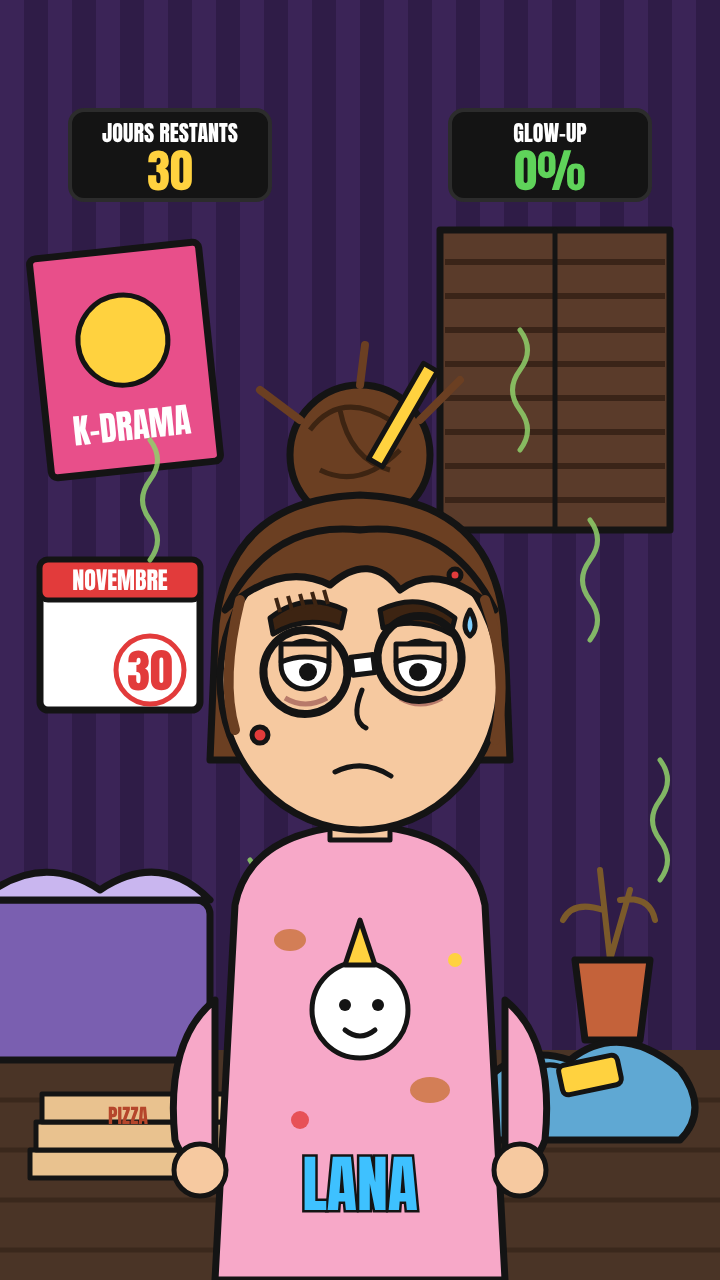
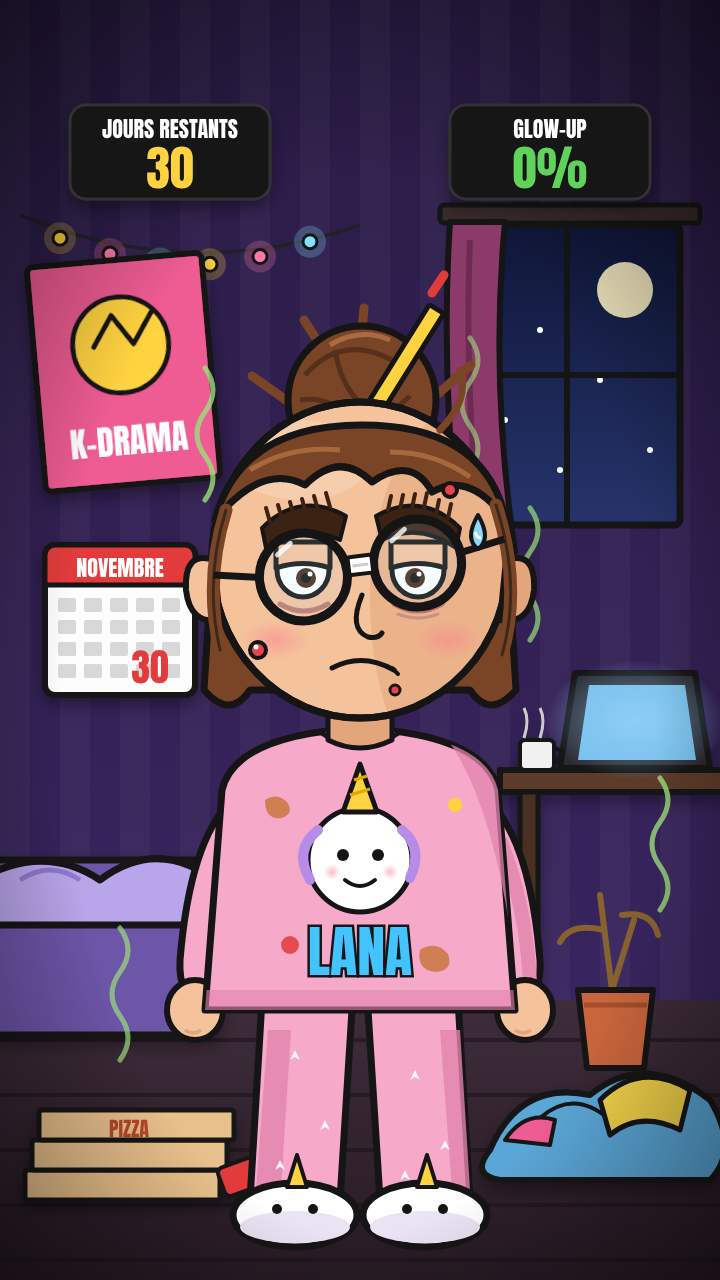
Ep01 : Lana v2, rendu ombré plus détaillé
Claude-Session: https://claude.ai/code/session_01JNk9tAzosVqfPuqeBGbF6X

diff --git a/outils/lana_v2.js b/outils/lana_v2.js
@@ -1,0 +1,245 @@
+// Lana 30 jours — rendu v2 (2D cartoon ombré, proche du rendu de la série de référence)
+const K = '#151515';
+const O = (w=6) => `stroke="${K}" stroke-width="${w}" stroke-linejoin="round" stroke-linecap="round"`;
+const SKIN='#f4c39c', SKIN_D='#e3a67c', HAIR='#7a4526', HAIR_D='#56301a', PINK='#f6a9c9', PINK_D='#e283ad';
+
+const defs = `
+<defs>
+ <linearGradient id="wall" x1="0" y1="0" x2="0" y2="1"><stop offset="0" stop-color="#2a1b45"/><stop offset="1" stop-color="#3c2766"/></linearGradient>
+ <radialGradient id="vig" cx=".5" cy=".55" r=".75"><stop offset=".55" stop-color="#000" stop-opacity="0"/><stop offset="1" stop-color="#000" stop-opacity=".55"/></radialGradient>
+ <linearGradient id="sky" x1="0" y1="0" x2="0" y2="1"><stop offset="0" stop-color="#0f1638"/><stop offset="1" stop-color="#26346b"/></linearGradient>
+ <linearGradient id="floor" x1="0" y1="0" x2="0" y2="1"><stop offset="0" stop-color="#3e2c3a"/><stop offset="1" stop-color="#271a24"/></linearGradient>
+ <radialGradient id="glow" cx=".5" cy=".5" r=".5"><stop offset="0" stop-color="#9fd8ff" stop-opacity=".55"/><stop offset="1" stop-color="#9fd8ff" stop-opacity="0"/></radialGradient>
+ <radialGradient id="blush" cx=".5" cy=".5" r=".5"><stop offset="0" stop-color="#ff7d8e" stop-opacity=".5"/><stop offset="1" stop-color="#ff7d8e" stop-opacity="0"/></radialGradient>
+ <filter id="sh" x="-20%" y="-20%" width="140%" height="140%"><feDropShadow dx="0" dy="8" stdDeviation="8" flood-color="#000" flood-opacity=".35"/></filter>
+ <clipPath id="cFace"><ellipse cx="360" cy="560" rx="148" ry="158"/></clipPath>
+ <clipPath id="cTop"><path d="M222 790 Q235 735 360 728 Q485 735 498 790 L515 1010 L205 1010 Z"/></clipPath>
+ <pattern id="stars" width="70" height="70" patternUnits="userSpaceOnUse"><path d="M20 22 l4 -10 l4 10 l-4 -2z" fill="#fff" opacity=".55"/><circle cx="52" cy="50" r="3" fill="#fff" opacity=".45"/></pattern>
+</defs>`;
+
+function room() {
+  let st=''; for(let x=0;x<720;x+=60) st+=`<rect x="${x}" y="0" width="30" height="1000" fill="#fff" opacity=".035"/>`;
+  return `
+  <rect width="720" height="1280" fill="url(#wall)"/>${st}
+  <!-- fenêtre de nuit + rideau -->
+  <rect x="455" y="225" width="225" height="300" rx="6" fill="url(#sky)" ${O(7)}/>
+  <circle cx="625" cy="290" r="28" fill="#fff4c4" opacity=".9"/>
+  ${[[495,270],[540,330],[600,380],[505,420],[650,450],[560,470]].map(([x,y])=>`<circle cx="${x}" cy="${y}" r="3" fill="#fff"/>`).join('')}
+  <line x1="567" y1="225" x2="567" y2="525" ${O(6)}/><line x1="455" y1="375" x2="680" y2="375" ${O(6)}/>
+  <rect x="440" y="205" width="260" height="18" rx="4" fill="#3a2a2a" ${O(5)}/>
+  <path d="M450 222 q-10 150 10 330 l55 0 q-25 -170 -10 -330z" fill="#8c3a6a" ${O(6)}/>
+  <path d="M470 240 q-6 140 10 300" stroke="#6d2a52" stroke-width="6" fill="none"/>
+  <!-- guirlande lumineuse -->
+  <path d="M20 215 q170 70 340 10" fill="none" stroke="#222" stroke-width="3"/>
+  ${[60,110,160,210,260,310].map((x,i)=>{const y=215+Math.sin((x-20)/340*Math.PI)*42;const c=['#ffd23f','#ff7aa8','#7fe0ff'][i%3];return `<circle cx="${x}" cy="${y+8}" r="16" fill="${c}" opacity=".25"/><circle cx="${x}" cy="${y+8}" r="7" fill="${c}" ${O(3)}/>`}).join('')}
+  <!-- poster -->
+  <g transform="rotate(-5 120 360)" filter="url(#sh)">
+   <rect x="35" y="260" width="175" height="225" rx="6" fill="#ef5b93" ${O(6)}/>
+   <circle cx="122" cy="345" r="48" fill="#ffd23f" ${O(5)}/><path d="M95 345 l20 -30 l20 30 l20 -30" fill="none" ${O(5)}/>
+   <text x="122" y="455" font-family="Anton" font-size="34" fill="#fff" text-anchor="middle">K-DRAMA</text>
+  </g>
+  <!-- calendrier -->
+  <g filter="url(#sh)"><rect x="45" y="545" width="150" height="150" rx="10" fill="#fdfdfd" ${O(6)}/>
+  <path d="M45 585 v-30 a10 10 0 0 1 10 -10 h130 a10 10 0 0 1 10 10 v30z" fill="#e23b3b" ${O(5)}/>
+  <text x="120" y="577" font-family="Anton" font-size="22" fill="#fff" text-anchor="middle">NOVEMBRE</text>
+  ${[0,1,2,3].map(r=>[0,1,2,3,4].map(c=>`<rect x="${58+c*26}" y="${598+r*22}" width="18" height="14" rx="2" fill="#d8d8d8"/>`).join('')).join('')}
+  <text x="150" y="683" font-family="Anton" font-size="38" fill="#e23b3b" text-anchor="middle">30</text></g>
+  <!-- sol -->
+  <rect x="0" y="1000" width="720" height="280" fill="url(#floor)"/>
+  ${[0,1,2,3,4].map(i=>`<line x1="0" y1="${1040+i*55}" x2="720" y2="${1040+i*55}" stroke="#1d131b" stroke-width="4" opacity=".6"/>`).join('')}
+  <!-- lit -->
+  <g filter="url(#sh)">
+   <rect x="-30" y="860" width="250" height="175" rx="16" fill="#6d55a8" ${O(7)}/>
+   <path d="M-30 885 q70 -45 130 -5 q60 -45 120 5 v40 h-250z" fill="#b9a5ea" ${O(7)}/>
+   <path d="M20 880 q30 -20 60 0" fill="none" stroke="#8f78cf" stroke-width="5"/>
+  </g>
+  <!-- bureau + ordi portable -->
+  <g filter="url(#sh)">
+   <rect x="500" y="770" width="230" height="22" fill="#5b3b2c" ${O(6)}/>
+   <rect x="520" y="792" width="18" height="200" fill="#4a2f22" ${O(5)}/>
+   <path d="M560 768 l15 -95 h120 l15 95z" fill="#2c2c34" ${O(6)}/>
+   <path d="M578 760 l11 -75 h96 l11 75z" fill="#7fd0ff" opacity=".9"/>
+   <ellipse cx="635" cy="720" rx="90" ry="60" fill="url(#glow)"/>
+   <rect x="520" y="740" width="34" height="30" rx="5" fill="#f1f1f1" ${O(4)}/><path d="M554 748 q14 2 0 16" fill="none" ${O(4)}/>
+   <path d="M524 738 q6 -18 0 -30 M540 738 q6 -18 0 -30" stroke="#ccc" stroke-width="3" fill="none"/>
+  </g>
+  <!-- plante morte -->
+  <path d="M612 990 l-12 -95 M612 990 l22 -70 M604 930 q-34 -8 -44 12 M622 915 q30 -5 36 20" fill="none" stroke="#86622f" stroke-width="6" stroke-linecap="round"/>
+  <path d="M578 990 h75 l-9 78 h-57z" fill="#c9653c" ${O(6)}/><path d="M584 1005 h63" stroke="#a54d2c" stroke-width="5"/>
+  <!-- tas de linge -->
+  <g filter="url(#sh)">
+   <path d="M490 1150 q30 -70 100 -55 q55 -45 120 5 q30 50 0 80 h-210 q-30 -5 -10 -30z" fill="#5aa6d6" ${O(6)}/>
+   <path d="M540 1118 q34 -30 70 2" fill="none" ${O(4)}/>
+   <path d="M600 1100 q40 -40 90 -10 l-10 40 q-40 -20 -70 5z" fill="#f2d24a" ${O(5)}/>
+   <path d="M505 1140 q20 -30 50 -20 l-5 25z" fill="#ef5b93" ${O(4)}/>
+  </g>
+  <!-- boîtes de pizza + canette -->
+  <g filter="url(#sh)">
+  ${[0,1,2].map(i=>`<rect x="${25+i*7}" y="${1170-i*30}" width="195" height="30" rx="3" fill="#e8c08b" ${O(5)}/>`).join('')}
+  <text x="129" y="1137" font-family="Anton" font-size="20" fill="#b5462b" text-anchor="middle">PIZZA</text>
+  <rect x="230" y="1150" width="30" height="50" rx="6" fill="#e23b3b" ${O(4)} transform="rotate(70 245 1175)"/>
+  </g>`;
+}
+
+function odeurs(){
+  const w=(x,y,o=.8)=>`<path d="M${x} ${y} q16 -22 0 -44 q-16 -22 0 -44 q16 -22 0 -44" fill="none" stroke="#9be07a" stroke-width="5" stroke-linecap="round" opacity="${o}"/>`;
+  return w(205,500)+w(530,640,.7)+w(255,990)+w(470,470,.6)+w(660,910)+w(120,1060,.7);
+}
+
+function lana(expr='blase'){
+  const legs = `
+  <path d="M262 1000 L250 1200 L340 1200 L352 1010 Z" fill="${PINK}" ${O(7)}/>
+  <path d="M368 1010 L380 1200 L470 1200 L458 1000 Z" fill="${PINK}" ${O(7)}/>
+  <path d="M268 1030 l-12 160 h25 l10 -160z M440 1030 l12 160 h18 l-10 -160z" fill="${PINK_D}" opacity=".8"/>
+  ${[[290,1060],[320,1130],[275,1170],[410,1080],[440,1150],[400,1180]].map(([x,y])=>`<path d="M${x} ${y} l5 -10 l5 10 l-5 -3z" fill="#fff" opacity=".9"/>`).join('')}
+  <!-- chaussons licorne -->
+  ${[[295,1215],[425,1215]].map(([x,y])=>`<ellipse cx="${x}" cy="${y}" rx="62" ry="32" fill="#fff" ${O(7)}/><ellipse cx="${x}" cy="${y+12}" rx="55" ry="16" fill="#e9e3f3"/><path d="M${x-8} ${y-28} l10 -32 l10 32z" fill="#ffd23f" ${O(4)}/><circle cx="${x-18}" cy="${y-6}" r="5" fill="${K}"/><circle cx="${x+18}" cy="${y-6}" r="5" fill="${K}"/>`).join('')}`;
+  const top = `
+  <!-- bras -->
+  <path d="M232 800 Q190 840 180 960 Q178 1000 205 1000 Q228 995 232 950 L250 850 Z" fill="${PINK}" ${O(7)}/>
+  <path d="M488 800 Q530 840 540 960 Q542 1000 515 1000 Q492 995 488 950 L470 850 Z" fill="${PINK}" ${O(7)}/>
+  <path d="M500 840 q25 60 30 140" stroke="${PINK_D}" stroke-width="14" fill="none" opacity=".8"/>
+  <ellipse cx="195" cy="1010" rx="28" ry="30" fill="${SKIN}" ${O(6)}/><ellipse cx="525" cy="1010" rx="28" ry="30" fill="${SKIN}" ${O(6)}/>
+  <path d="M185 1030 q8 6 16 0 M515 1030 q8 6 16 0" stroke="${SKIN_D}" stroke-width="4" fill="none"/>
+  <!-- haut de pyjama -->
+  <path d="M222 790 Q235 735 360 728 Q485 735 498 790 L515 1010 L205 1010 Z" fill="${PINK}" ${O(7)}/>
+  <g clip-path="url(#cTop)"><path d="M440 730 Q500 800 520 1010 L560 1010 L560 720 Z" fill="${PINK_D}" opacity=".75"/>
+   <rect x="200" y="990" width="330" height="30" fill="${PINK_D}" opacity=".6"/></g>
+  <path d="M320 732 q40 28 80 0" fill="#fff" ${O(5)}/>
+  <!-- licorne brodée -->
+  <circle cx="360" cy="860" r="52" fill="#fff" ${O(5)}/>
+  <path d="M343 812 l17 -48 l17 48z" fill="#ffd23f" ${O(5)}/><path d="M350 795 l20 -6 M354 780 l13 -4" stroke="#e0a800" stroke-width="3"/>
+  <path d="M318 830 q-25 20 -8 50 M402 830 q22 18 8 48" fill="none" stroke="#b78be8" stroke-width="10" stroke-linecap="round"/>
+  <circle cx="343" cy="855" r="6" fill="${K}"/><circle cx="378" cy="855" r="6" fill="${K}"/>
+  <path d="M345 880 q15 12 30 0" fill="none" ${O(4)}/><circle cx="332" cy="872" r="8" fill="url(#blush)"/><circle cx="390" cy="872" r="8" fill="url(#blush)"/>
+  <!-- taches -->
+  <path d="M265 800 q12 -8 22 2 q8 12 -6 16 q-16 2 -16 -18z" fill="#c9783f" opacity=".85"/>
+  <path d="M420 950 q16 -10 28 4 q6 16 -12 18 q-20 -2 -16 -22z" fill="#c9783f" opacity=".85"/>
+  <circle cx="290" cy="945" r="9" fill="#e23b3b" opacity=".85"/><circle cx="455" cy="805" r="7" fill="#ffd23f"/>
+  <text x="360" y="975" font-family="Anton" font-size="56" fill="#43c3ff" stroke="${K}" stroke-width="5" paint-order="stroke" text-anchor="middle">LANA</text>`;
+  const eyes = expr==='choc'
+   ? `<ellipse cx="303" cy="565" rx="27" ry="31" fill="#fff" ${O(5)}/><ellipse cx="418" cy="565" rx="27" ry="31" fill="#fff" ${O(5)}/>
+      <circle cx="303" cy="567" r="9" fill="${K}"/><circle cx="418" cy="567" r="9" fill="${K}"/>`
+   : `<ellipse cx="303" cy="570" rx="26" ry="27" fill="#fff" ${O(5)}/><ellipse cx="418" cy="570" rx="26" ry="27" fill="#fff" ${O(5)}/>
+      <circle cx="306" cy="578" r="10" fill="#4a2c1a"/><circle cx="306" cy="578" r="5" fill="${K}"/><circle cx="310" cy="574" r="2.5" fill="#fff"/>
+      <circle cx="415" cy="578" r="10" fill="#4a2c1a"/><circle cx="415" cy="578" r="5" fill="${K}"/><circle cx="419" cy="574" r="2.5" fill="#fff"/>
+      <path d="M276 568 q27 -9 54 0 l0 -26 h-54z" fill="${SKIN}" ${O(5)}/><path d="M391 568 q27 -9 54 0 l0 -26 h-54z" fill="${SKIN}" ${O(5)}/>`;
+  const mouth = expr==='choc'
+   ? `<path d="M340 655 q22 -14 44 0 q4 40 -22 42 q-26 -2 -22 -42z" fill="#7a1f2b" ${O(5)}/><path d="M346 685 q16 -10 32 0 q-4 10 -16 10 q-12 0 -16 -10z" fill="#ff8a95"/>`
+   : `<path d="M332 668 q30 -16 62 2" fill="none" ${O(5)}/><path d="M392 668 l6 6" ${O(4)}/>`;
+  return legs + top + `
+  <!-- cou -->
+  <path d="M328 700 h64 v40 q-32 16 -64 0z" fill="${SKIN_D}" ${O(5)}/>
+  <!-- chignon nid d'oiseau -->
+  <g>
+   <path d="M300 410 l-48 -34 M425 405 l46 -40 M360 352 l4 -44 M330 360 l-26 -40 M400 365 l30 -38" stroke="${HAIR}" stroke-width="9" stroke-linecap="round"/>
+   <circle cx="362" cy="400" r="74" fill="${HAIR}" ${O(7)}/>
+   <path d="M305 375 q40 -45 95 -10 M310 420 q48 26 100 -24 M335 350 q10 60 60 70 M300 400 q30 -5 50 20" fill="none" stroke="${HAIR_D}" stroke-width="5"/>
+   <path d="M330 345 q30 -18 60 -5" stroke="#b77447" stroke-width="5" fill="none" opacity=".8"/>
+   <rect x="398" y="300" width="17" height="115" rx="3" fill="#ffd23f" ${O(5)} transform="rotate(32 406 357)"/>
+   <path d="M432 293 l12 -18" stroke="#e23b3b" stroke-width="9" stroke-linecap="round" transform="rotate(0)"/>
+   <!-- chouchou -->
+   <ellipse cx="362" cy="465" rx="62" ry="16" fill="#43c3ff" ${O(5)}/>
+  </g>
+  <!-- cheveux arrière -->
+  <path d="M212 560 Q210 440 362 432 Q514 440 508 560 L516 690 Q490 720 470 690 L250 690 Q230 720 204 690 Z" fill="${HAIR}" ${O(7)}/>
+  <!-- visage -->
+  <ellipse cx="360" cy="560" rx="148" ry="158" fill="${SKIN}" ${O(7)}/>
+  <g clip-path="url(#cFace)">
+   <ellipse cx="460" cy="600" rx="90" ry="190" fill="${SKIN_D}" opacity=".55"/>
+   <ellipse cx="300" cy="460" rx="70" ry="40" fill="#fff" opacity=".18"/>
+  </g>
+  <ellipse cx="360" cy="560" rx="148" ry="158" fill="none" ${O(7)}/>
+  <!-- oreilles -->
+  <path d="M214 560 q-30 -10 -28 30 q4 35 34 30z" fill="${SKIN}" ${O(6)}/><path d="M506 560 q30 -10 28 30 q-4 35 -34 30z" fill="${SKIN_D}" ${O(6)}/>
+  <!-- frange en mèches -->
+  <path d="M215 520 Q240 425 362 425 Q485 425 506 520 Q470 470 432 492 Q412 455 372 482 Q340 450 305 485 Q262 462 215 520 Z" fill="${HAIR}" ${O(7)}/>
+  <path d="M250 470 q40 -25 90 -20 M390 452 q45 0 80 25" stroke="#b77447" stroke-width="5" fill="none" opacity=".75"/>
+  <path d="M226 510 q-22 70 -6 140 M496 505 q26 80 6 150" fill="none" stroke="${HAIR}" stroke-width="13" stroke-linecap="round"/>
+  <path d="M226 510 q-22 70 -6 140 M496 505 q26 80 6 150" fill="none" stroke="${K}" stroke-width="3" stroke-linecap="round" opacity=".6"/>
+  <path d="M440 430 q30 -30 20 -60" fill="none" stroke="${HAIR}" stroke-width="7" stroke-linecap="round"/>
+  <!-- sourcils broussailleux -->
+  <path d="M262 528 q38 -38 84 -12 l-6 24 q-38 -18 -74 8z" fill="#3b2213" ${O(4)}/>
+  <path d="M376 516 q46 -26 84 12 l-4 20 q-36 -26 -74 -8z" fill="#3b2213" ${O(4)}/>
+  ${[0,1,2,3,4,5].map(i=>`<path d="M${270+i*12} ${522-i*3} l-4 -14" stroke="#3b2213" stroke-width="4" stroke-linecap="round"/><path d="M${388+i*12} ${510+(i>3?(i-3)*4:-i)} l3 -14" stroke="#3b2213" stroke-width="4" stroke-linecap="round"/>`).join('')}
+  ${eyes}
+  <!-- cernes -->
+  <path d="M280 604 q24 14 48 0 M394 604 q24 14 48 0" fill="none" stroke="#b9786b" stroke-width="5" stroke-linecap="round"/>
+  <path d="M284 614 q20 8 40 0 M398 614 q20 8 40 0" fill="none" stroke="#c99187" stroke-width="3" stroke-linecap="round"/>
+  <!-- lunettes rondes de travers -->
+  <g transform="rotate(-7 360 570)">
+   <circle cx="303" cy="570" r="44" fill="#bfe6ff" fill-opacity=".12" stroke="${K}" stroke-width="9"/>
+   <circle cx="418" cy="570" r="44" fill="#bfe6ff" fill-opacity=".12" stroke="${K}" stroke-width="9"/>
+   <path d="M280 545 l14 -10 M395 545 l14 -10" stroke="#fff" stroke-width="5" stroke-linecap="round" opacity=".8"/>
+   <path d="M347 568 q14 -10 27 0" fill="none" stroke="${K}" stroke-width="9"/>
+   <rect x="349" y="556" width="24" height="18" rx="2" fill="#fff" ${O(4)}/><path d="M353 565 h16" stroke="#ccc" stroke-width="3"/>
+   <path d="M259 565 l-45 -8 M462 565 l45 -8" stroke="${K}" stroke-width="7"/>
+  </g>
+  <!-- nez, joues, bouche -->
+  <path d="M362 595 q-14 34 6 42 q10 2 14 -4" fill="none" ${O(5)}/>
+  <ellipse cx="275" cy="640" rx="34" ry="20" fill="url(#blush)"/><ellipse cx="448" cy="640" rx="34" ry="20" fill="url(#blush)"/>
+  ${mouth}
+  <!-- boutons et taches -->
+  <circle cx="258" cy="650" r="8" fill="#e8434a" ${O(4)}/><circle cx="256" cy="647" r="2.5" fill="#fff"/>
+  <circle cx="450" cy="490" r="7" fill="#e8434a" ${O(4)}/>
+  <circle cx="395" cy="690" r="5" fill="#e8434a" ${O(3)}/>
+  <!-- goutte de sueur -->
+  <path d="M478 515 q-14 24 0 34 q14 -10 0 -34z" fill="#8fd7ff" ${O(4)}/><path d="M475 532 q2 6 6 6" stroke="#fff" stroke-width="3" fill="none"/>`;
+}
+
+function chat(x,y,sc,expr='juge'){
+  return `<g transform="translate(${x} ${y}) scale(${sc})" filter="url(#sh)">
+  <path d="M60 80 q90 -10 70 -90" fill="none" stroke="${K}" stroke-width="22" stroke-linecap="round"/>
+  <path d="M60 80 q90 -10 70 -90" fill="none" stroke="#ef8a2e" stroke-width="13" stroke-linecap="round"/>
+  <ellipse cx="0" cy="60" rx="88" ry="72" fill="#ef8a2e" ${O(7)}/>
+  <ellipse cx="0" cy="80" rx="45" ry="45" fill="#fbe3c4"/>
+  <path d="M-60 40 q12 12 0 26 M60 40 q-12 12 0 26 M-30 0 q0 14 -6 22 M30 0 q0 14 6 22" stroke="#c4651c" stroke-width="6" fill="none"/>
+  <circle cx="0" cy="-30" r="64" fill="#ef8a2e" ${O(7)}/>
+  <path d="M-58 -58 l6 -60 l44 32z M58 -58 l-6 -60 l-44 32z" fill="#ef8a2e" ${O(7)}/>
+  <path d="M-48 -70 l3 -30 l22 16z M48 -70 l-3 -30 l-22 16z" fill="#f7b8c4"/>
+  <path d="M-15 -90 l5 22 M0 -94 v24 M15 -90 l-5 22" stroke="#c4651c" stroke-width="6" stroke-linecap="round"/>
+  <ellipse cx="-24" cy="-32" rx="15" ry="13" fill="#d6f27a" ${O(4)}/><ellipse cx="24" cy="-32" rx="15" ry="13" fill="#d6f27a" ${O(4)}/>
+  <rect x="-27" y="-42" width="6" height="20" rx="3" fill="${K}"/><rect x="21" y="-42" width="6" height="20" rx="3" fill="${K}"/>
+  <path d="M-42 -40 q18 -4 34 4 l0 -12 h-34z M42 -40 q-18 -4 -34 4 l0 -12 h34z" fill="#ef8a2e" ${O(4)}/>
+  <ellipse cx="0" cy="-2" rx="30" ry="20" fill="#fbe3c4"/>
+  <path d="M-8 -12 l8 8 l8 -8z" fill="#e8708f" ${O(4)}/>
+  <path d="M0 -4 v6 M-14 10 q14 -10 28 0" fill="none" ${O(4)}/>
+  <path d="M-34 -6 h-44 M-34 4 h-40 M34 -6 h44 M34 4 h40" stroke="${K}" stroke-width="3"/>
+  <ellipse cx="-36" cy="120" rx="26" ry="16" fill="#ef8a2e" ${O(6)}/><ellipse cx="36" cy="120" rx="26" ry="16" fill="#ef8a2e" ${O(6)}/>
+  </g>`;
+}
+
+function hud(j=30,g=0){
+  const box=(x,label,val,col)=>`<g filter="url(#sh)"><rect x="${x}" y="105" width="200" height="94" rx="16" fill="#121212" stroke="#333" stroke-width="3"/>
+   <text x="${x+100}" y="138" font-family="Anton" font-size="22" fill="#fff" text-anchor="middle">${label}</text>
+   <text x="${x+100}" y="188" font-family="Anton" font-size="48" fill="${col}" text-anchor="middle">${val}</text></g>`;
+  return box(70,'JOURS RESTANTS',j,'#ffd23f')+box(450,'GLOW-UP',g+'%','#5fd35a');
+}
+const titre=(y,parts,size=118)=>`<text x="360" y="${y}" font-family="Anton" font-size="${size}" text-anchor="middle" stroke="${K}" stroke-width="16" paint-order="stroke" filter="url(#sh)">${parts.map(([t,c])=>`<tspan fill="${c}">${t}</tspan>`).join('')}</text>`;
+const bandeau=(t,y=1110)=>`<g filter="url(#sh)"><rect x="65" y="${y}" width="590" height="82" rx="18" fill="#121212" stroke="#ffd23f" stroke-width="4"/>
+  <text x="360" y="${y+55}" font-family="Anton" font-size="36" fill="#fff" text-anchor="middle">${t}</text></g>`;
+const tel=`<g transform="translate(575 800) rotate(14)" filter="url(#sh)"><rect x="-75" y="-125" width="150" height="250" rx="22" fill="#1b1b1b" ${O(6)}/>
+  <rect x="-62" y="-104" width="124" height="200" rx="8" fill="#fff"/>
+  <rect x="-54" y="-92" width="108" height="150" rx="12" fill="#e9f6ff" stroke="#9cc" stroke-width="2"/>
+  <text x="0" y="-62" font-family="Anton" font-size="20" fill="${K}" text-anchor="middle">INÈS 🎉</text>
+  <text x="0" y="-30" font-family="Anton" font-size="14" fill="${K}" text-anchor="middle">LES 10 ANS DU LYCÉE</text>
+  <text x="0" y="-6" font-family="Anton" font-size="14" fill="${K}" text-anchor="middle">C'EST DANS 30 JOURS</text>
+  <text x="0" y="30" font-family="Anton" font-size="16" fill="#e23b3b" text-anchor="middle">NATHAN VIENT ❤</text></g>`;
+
+const scenes={
+ 'plan03-lana-chambre':()=>room()+odeurs()+lana('blase')+`<rect width="720" height="1280" fill="url(#vig)"/>`+hud(),
+ 'plan05-lana-choc':()=>room()+odeurs()+lana('choc')+`<rect width="720" height="1280" fill="url(#vig)"/>`+tel+hud(),
+ 'plan04-pates':()=>room()+odeurs()+chat(360,820,2.1)+`<rect width="720" height="1280" fill="url(#vig)"/>`+hud(),
+ 'couverture-ep01':()=>room()+odeurs()+`<g transform="translate(0 110)">${lana('blase')}</g><rect width="720" height="1280" fill="url(#vig)"/>`+
+   titre(150,[['30 JOURS','#ffd23f']])+titre(280,[['POUR TOUT','#fff']])+titre(410,[['CHANGER','#e23b3b']])+bandeau('JOUR 1 · À TOI DE CHOISIR'),
+};
+module.exports={scenes};
+
+if(require.main===module){
+  const {chromium}=require('playwright'); const out=process.argv[2];
+  (async()=>{const b=await chromium.launch();const p=await b.newPage({viewport:{width:720,height:1280}});
+   for(const [n,fn] of Object.entries(scenes)){
+    await p.setContent(`<html><head><link href="https://fonts.googleapis.com/css2?family=Anton&display=block" rel="stylesheet"><style>body{margin:0}</style></head><body><svg xmlns="http://www.w3.org/2000/svg" width="720" height="1280" viewBox="0 0 720 1280">${defs}${fn()}</svg></body></html>`,{waitUntil:'networkidle'});
+    await p.evaluate(()=>document.fonts.ready); await p.screenshot({path:`${out}/${n}.png`}); console.log('ok',n);}
+   await b.close();})();
+}
